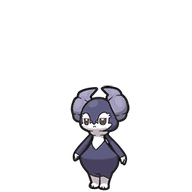
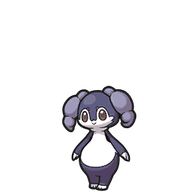
:card_file_box: :bento: Add female Indeedee to SV dex

Changed region(s): [[0.3125, 0.4375, 0.7188, 1.0]]

diff --git a/static/js/dexes.js b/static/js/dexes.js
@@ -9187,7 +9187,7 @@ export default {
             "238": [ [ 855, 0 ] ],
             "239": [ [ 778, 0 ] ],
             "240": [ [ 707, 0 ] ],
-            "241": [ [ 876, 0 ] ],
+            "241": [ [ 876, 0 ], [ 876, 1 ] ],
             "242": [ [ 946, 0 ] ],
             "243": [ [ 947, 0 ] ],
             "244": [ [ 948, 0 ] ],
